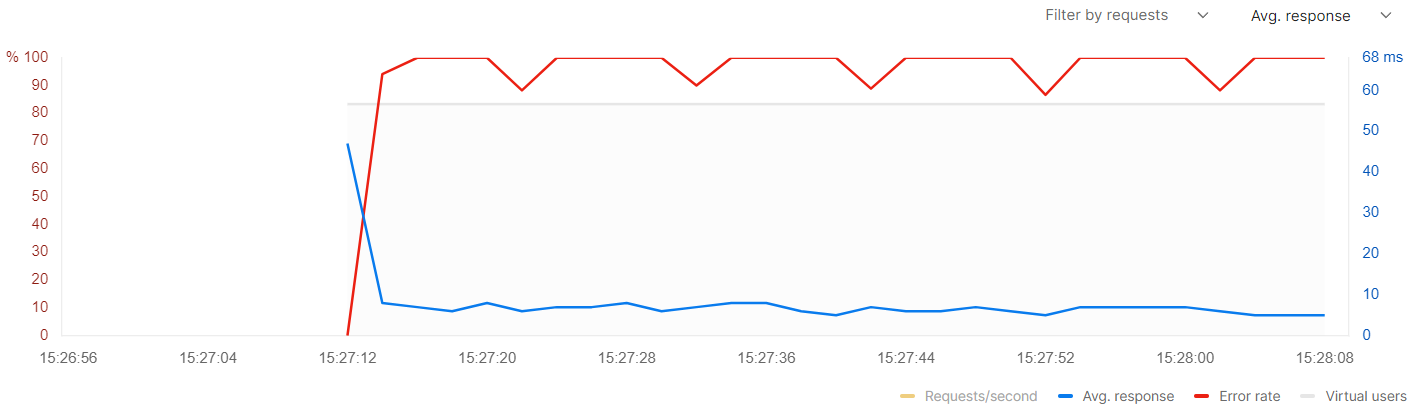
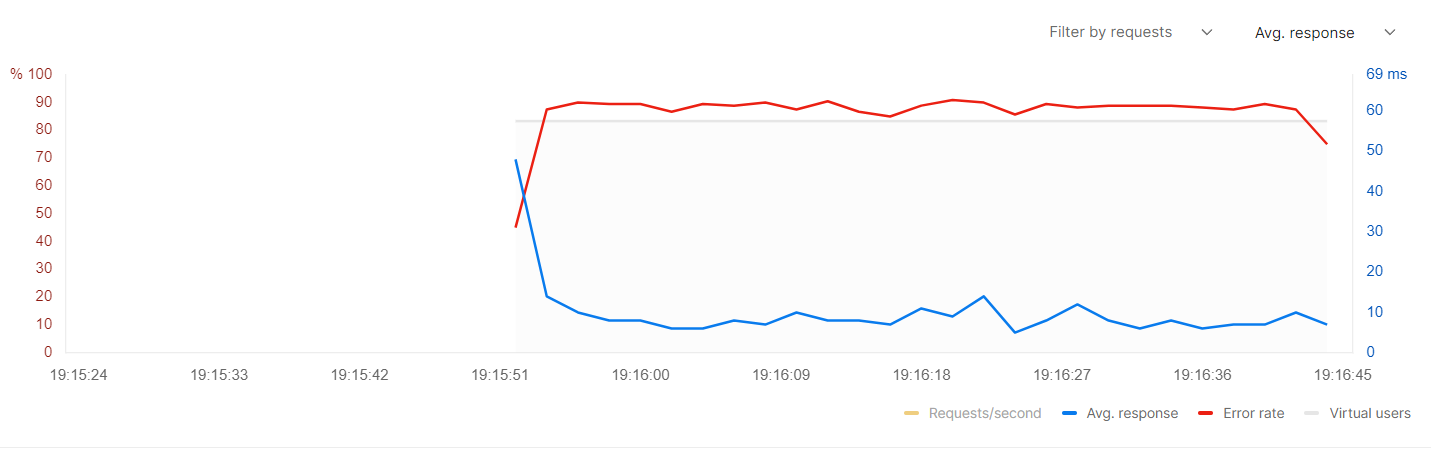
leaky bucket

diff --git a/rate-limiter/rate_limiter/app.py b/rate-limiter/rate_limiter/app.py
@@ -1,14 +1,20 @@
 from flask import Flask
 from redis_connection import RedisConnection
-from decorators import TokenBucketRateLimiter
+from decorators import LeakyBucketRateLimiter, TokenBucketRateLimiter
 from token_bucket_algo.token_bucket_factory import TokenBucketFactory
+from leaky_bucket_algo.leaky_bucket_factory import LeakyBucketFactory
 import settings
 
 app = Flask(__name__)
-db_connection = RedisConnection(**settings.redis)
-db_connection.connect()
-token_bucket_factory = TokenBucketFactory(db_connection, settings.token_bucket)
+token_bucket_db = RedisConnection(settings.redis["host"],settings.redis["port"],settings.redis["token_bucket_db"])
+token_bucket_db.connect()
+token_bucket_factory = TokenBucketFactory(token_bucket_db, settings.token_bucket)
 token_bucket_rate_limiter = TokenBucketRateLimiter(token_bucket_factory)
+
+leaky_bucket_db = RedisConnection(settings.redis["host"],settings.redis["port"],settings.redis["leaky_bucket_db"])
+leaky_bucket_db.connect()
+leaky_bucket_factory = LeakyBucketFactory(leaky_bucket_db, settings.leaky_bucket)
+leaky_bucket_rate_limiter = LeakyBucketRateLimiter(leaky_bucket_factory)
 
 @app.route('/hello')
 def hello():
@@ -18,6 +24,11 @@ def hello():
 @token_bucket_rate_limiter
 def token_bucket_rate_limited():
     return "Limited by token bucket, don't over use me!"
+
+@app.route('/leaky-bucket-rate-limited', methods=['GET'])
+@leaky_bucket_rate_limiter
+def leaky_bucket_rate_limited():
+    return "Limited by leaky bucket, don't over use me!"
 
 @app.route('/unlimited', methods=['GET'])
 def unlimited():

diff --git a/rate-limiter/rate_limiter/leaky_bucket_algo/leaky_bucket.py b/rate-limiter/rate_limiter/leaky_bucket_algo/leaky_bucket.py
@@ -1,0 +1,44 @@
+
+import time
+from .bucket import Bucket
+
+
+class Token():
+    pass
+
+class LeakyBucket():
+
+    def __init__(self, capacity: int, leak_rate: float) -> None:
+        self._my_bucket = Bucket(capacity)
+        self._validate_parameters( leak_rate)
+        self.leak_rate = leak_rate
+        self.last_leak_time = int(time.time())
+
+    def _validate_parameters(self, leak_rate: float) -> None:
+        if leak_rate <= 0 or \
+            not isinstance(leak_rate, float):
+                raise ValueError("leak_rate should be a float")
+
+    
+    def _leak(self):
+        current_time = int(time.time())
+        time_elapsed_in_seconds = current_time - self.last_leak_time
+        self.last_leak_time = current_time
+        number_of_tokens_to_leak = int(time_elapsed_in_seconds * self.leak_rate) % self._my_bucket.capacity
+        for _ in range(number_of_tokens_to_leak):
+            self._my_bucket.empty()
+        
+    def _fill(self):
+        self._my_bucket.fill([Token()])
+
+    def _has_capacity(self) -> bool:
+        if self._my_bucket.is_full():
+            return False
+        return True
+
+    def allow_request(self):
+        self._leak()
+        if self._has_capacity():
+            self._fill()
+            return True
+        return False

diff --git a/rate-limiter/rate_limiter/leaky_bucket_algo/leaky_bucket_factory.py b/rate-limiter/rate_limiter/leaky_bucket_algo/leaky_bucket_factory.py
@@ -1,0 +1,24 @@
+import pickle
+from .leaky_bucket import LeakyBucket
+from .singleton import Singleton
+
+class LeakyBucketFactory(Singleton):
+    def __init__(self, database_client, config: dict):
+        self.lb_capacity = config["capacity"]
+        self.lb_leak_rate = config["leak_rate"]
+        self.database_client = database_client
+
+    def __call__(self, ip):
+        serialized_leaky_bucket = self.database_client.get(ip)
+        if serialized_leaky_bucket:
+            leaky_bucket = pickle.loads(serialized_leaky_bucket)
+        else:
+            leaky_bucket = LeakyBucket(self.lb_capacity, self.lb_leak_rate)
+            serialized_leaky_bucket = pickle.dumps(leaky_bucket)
+            self.database_client.set(ip, serialized_leaky_bucket)
+        return leaky_bucket
+    
+    def save_leaky_bucket(self, ip, leaky_bucket):
+        serialized_leaky_bucket = pickle.dumps(leaky_bucket)
+        self.database_client.set(ip, serialized_leaky_bucket)
+    

diff --git a/rate-limiter/rate_limiter/leaky_bucket_algo/bucket.py b/rate-limiter/rate_limiter/leaky_bucket_algo/bucket.py
@@ -1,0 +1,33 @@
+
+from typing import Any
+
+class Bucket():
+    
+    def __init__(self, capacity) -> None:
+        self._validate_parameters(capacity)
+        self.capacity = capacity
+        self._my_bucket = list()
+    
+    def _validate_parameters(self, capacity: int) -> None:
+        
+        if capacity <= 0 or not isinstance(capacity, int):
+                raise ValueError("capacity should be a natural number")
+    
+    def fill_level(self) -> int:
+         return len(self._my_bucket)
+         
+    def is_full(self):
+        return self.fill_level() == self.capacity
+
+    def is_empty(self):
+        return self.fill_level() == 0
+
+    def fill(self, items: list) -> None:
+        for item in items:
+            if self.is_full():
+                break
+            self._my_bucket.append(item)
+
+    def empty(self) -> Any:
+        if not self.is_empty():
+            return self._my_bucket.pop()

diff --git a/rate-limiter/rate_limiter/settings.py b/rate-limiter/rate_limiter/settings.py
@@ -3,13 +3,17 @@ import os
 redis = {
     "host": os.environ.get("DB_HOST", "localhost"),
     "port": os.environ.get("DB_PORT", 6379),
-    "db": os.environ.get("DB_NAME", 0),
+    "token_bucket_db": os.environ.get("TOKEN_BUCKET_DB", 0),
+    "leaky_bucket_db": os.environ.get("LEAKY_BUCKET_DB", 1),
 }
 
 token_bucket = {
     "capacity": int(os.environ.get("TOKEN_BUCKET_CAPACITY", 10)),
-    "refill_amount": int(os.environ.get("TOKEN_BUCKET_REFILL_AMOUNT", 2)),
-    "refill_time_in_seconds": int(os.environ.get("TOKEN_BUCKET_REFILL_TIME_IN_SECONDS", 10))
+    "refill_amount": int(os.environ.get("TOKEN_BUCKET_REFILL_AMOUNT", 1)),
+    "refill_time_in_seconds": int(os.environ.get("TOKEN_BUCKET_REFILL_TIME_IN_SECONDS", 1))
 }
 
-leaky_bucket = {}
+leaky_bucket = {
+    "capacity": int(os.environ.get("LEAKY_BUCKET_CAPACITY", 10)),
+    "leak_rate": float(os.environ.get("LEAKY_BUCKET_LEAK_RATE", 1.0))
+}

diff --git a/rate-limiter/rate_limiter/token_bucket_algo/token_bucket.py b/rate-limiter/rate_limiter/token_bucket_algo/token_bucket.py
@@ -15,7 +15,6 @@ class TokenBucket():
         self.refill_amount = refill_amount
         self.refill_time_in_seconds = refill_time_in_seconds
         self.last_refill_time = int(time.time())
-        self.refill_rate = self.refill_amount / self.refill_time_in_seconds
 
     def _validate_parameters(self, refill_amount: int, refill_time_in_seconds: int) -> None:
         if refill_amount <= 0 or \
@@ -30,6 +29,7 @@ class TokenBucket():
         if time_elapsed_in_seconds >= self.refill_time_in_seconds:
             number_of_tokens_to_add = (time_elapsed_in_seconds//self.refill_time_in_seconds) * self.refill_amount
             self._my_bucket.fill([Token() for _ in range(number_of_tokens_to_add)])
+            # self.last_refill_time = current_time
             self.last_refill_time = current_time - (time_elapsed_in_seconds % self.refill_time_in_seconds)
     
     def _pop_token(self) -> bool:

diff --git a/rate-limiter/rate_limiter/decorators.py b/rate-limiter/rate_limiter/decorators.py
@@ -21,3 +21,23 @@ class TokenBucketRateLimiter:
                 else:
                     return jsonify({"error": "Rate limit exceeded"}), 429 
         return wrapper
+
+class LeakyBucketRateLimiter:
+
+    def __init__(self, leaky_bucket_factory) -> None:
+        self.leaky_bucket_factory = leaky_bucket_factory
+        self.leaky_bucket_lock = threading.Lock()
+
+    def __call__(self, func):
+        @wraps(func)
+        def wrapper(*args, **kwargs):
+            ip = request.remote_addr
+            leaky_bucket = self.leaky_bucket_factory(ip)
+            with self.leaky_bucket_lock:
+                if leaky_bucket.allow_request():
+                    self.leaky_bucket_factory.save_leaky_bucket(ip, leaky_bucket)
+                    return func(*args, **kwargs)
+                else:
+                    return jsonify({"error": "Rate limit exceeded"}), 429 
+        return wrapper
+

diff --git a/rate-limiter/rate_limiter/leaky_bucket_algo/singleton.py b/rate-limiter/rate_limiter/leaky_bucket_algo/singleton.py
@@ -1,0 +1,8 @@
+
+class Singleton:
+    _instances = {}
+
+    def __new__(cls, *args, **kwargs):
+        if cls not in cls._instances:
+            cls._instances[cls] = super().__new__(cls)
+        return cls._instances[cls]

diff --git a/README.md b/README.md
@@ -17,3 +17,7 @@ poetry install
 Token bucket rate limiting with capacity of 10 tokens with new tokens added at a rate of 1 token per second.
 
 ![token_bucket_performance_testing](./screenshots/token_bucket.PNG)
+
+Leaky bucket rate limiting with capacity of 10 tokens with new tokens added at a rate of 1 token per second.
+
+![leaky_bucket_performance_testing](./screenshots/leaky_bucket.PNG)
